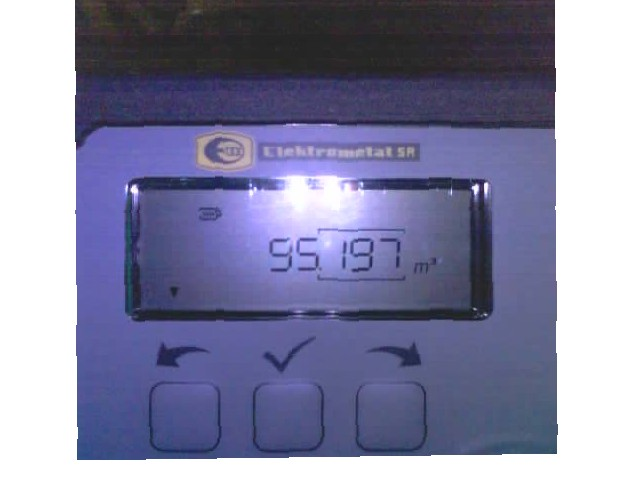
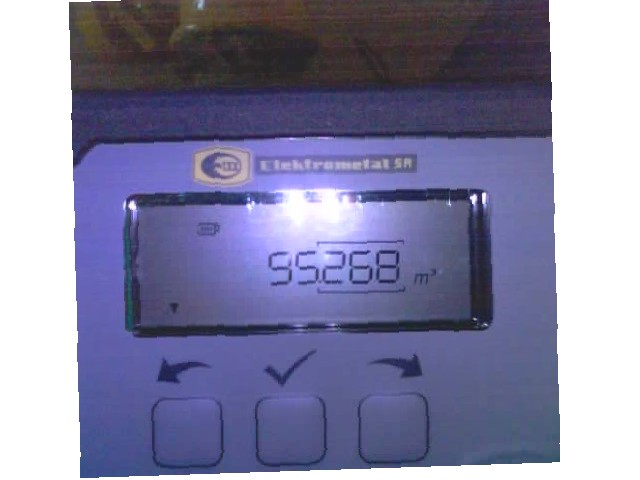
Automatyczna aktualizacja strony i danych

diff --git a/index.html b/index.html
@@ -35,11 +35,11 @@
 <body>
     <div class="container">
         <h1>Bieżący Stan Licznika</h1>
-        <div class="status">Ostatnia aktualizacja danych:<br><span class="timestamp">2026-10-27 06:26:17</span></div>
+        <div class="status">Ostatnia aktualizacja danych:<br><span class="timestamp">2026-10-27 06:31:44</span></div>
         <div class="odczyt">93498 m³</div>
         <div class="uwaga">Ostatni odczyt się nie powiódł, wyświetlana jest poprzednia poprawna wartość.</div>
         <h3>Aktualne zdjęcie z gazomierza:</h3>
-        <img src="img_tmp/alg.jpg?t=1793078777" alt="Zdjęcie licznika">
+        <img src="img_tmp/alg.jpg?t=1793079104" alt="Zdjęcie licznika">
     </div>
 </body>
 </html>
